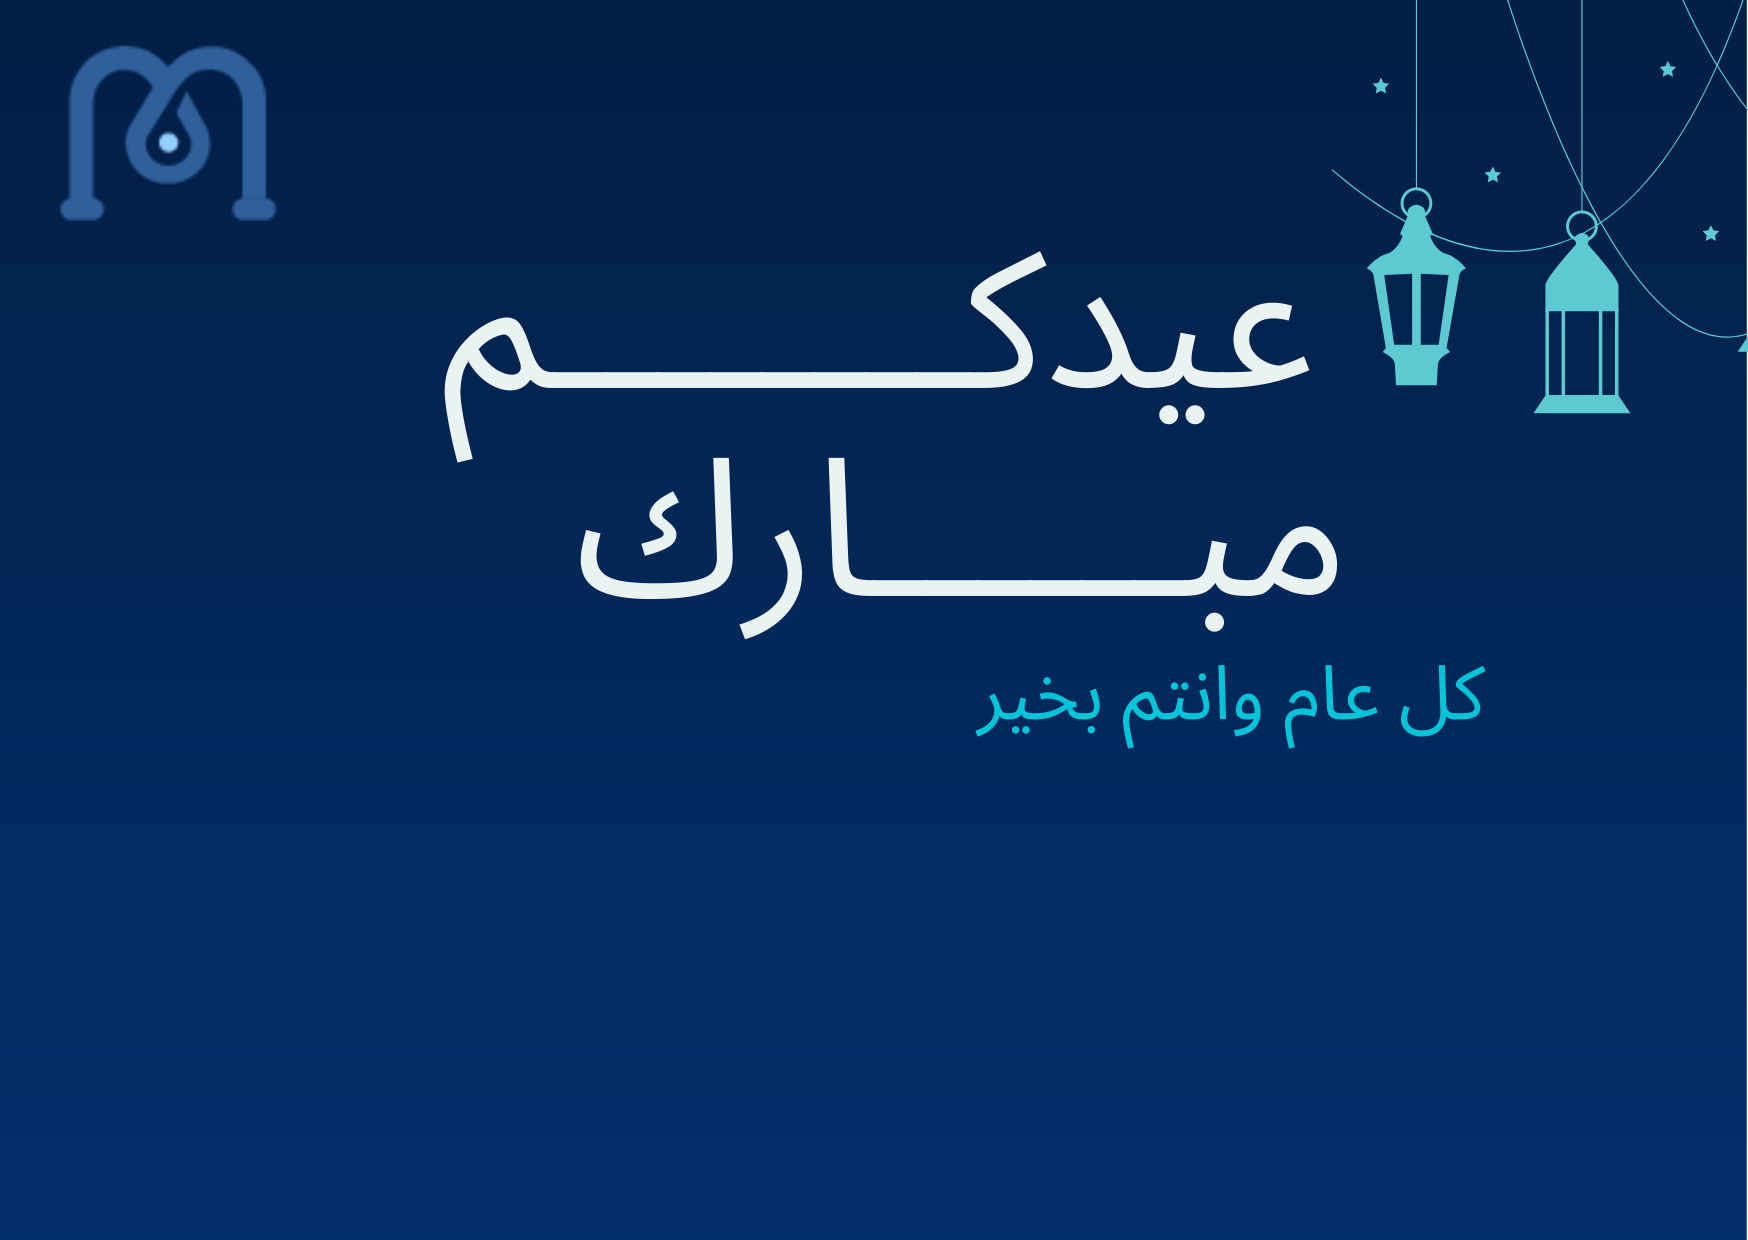
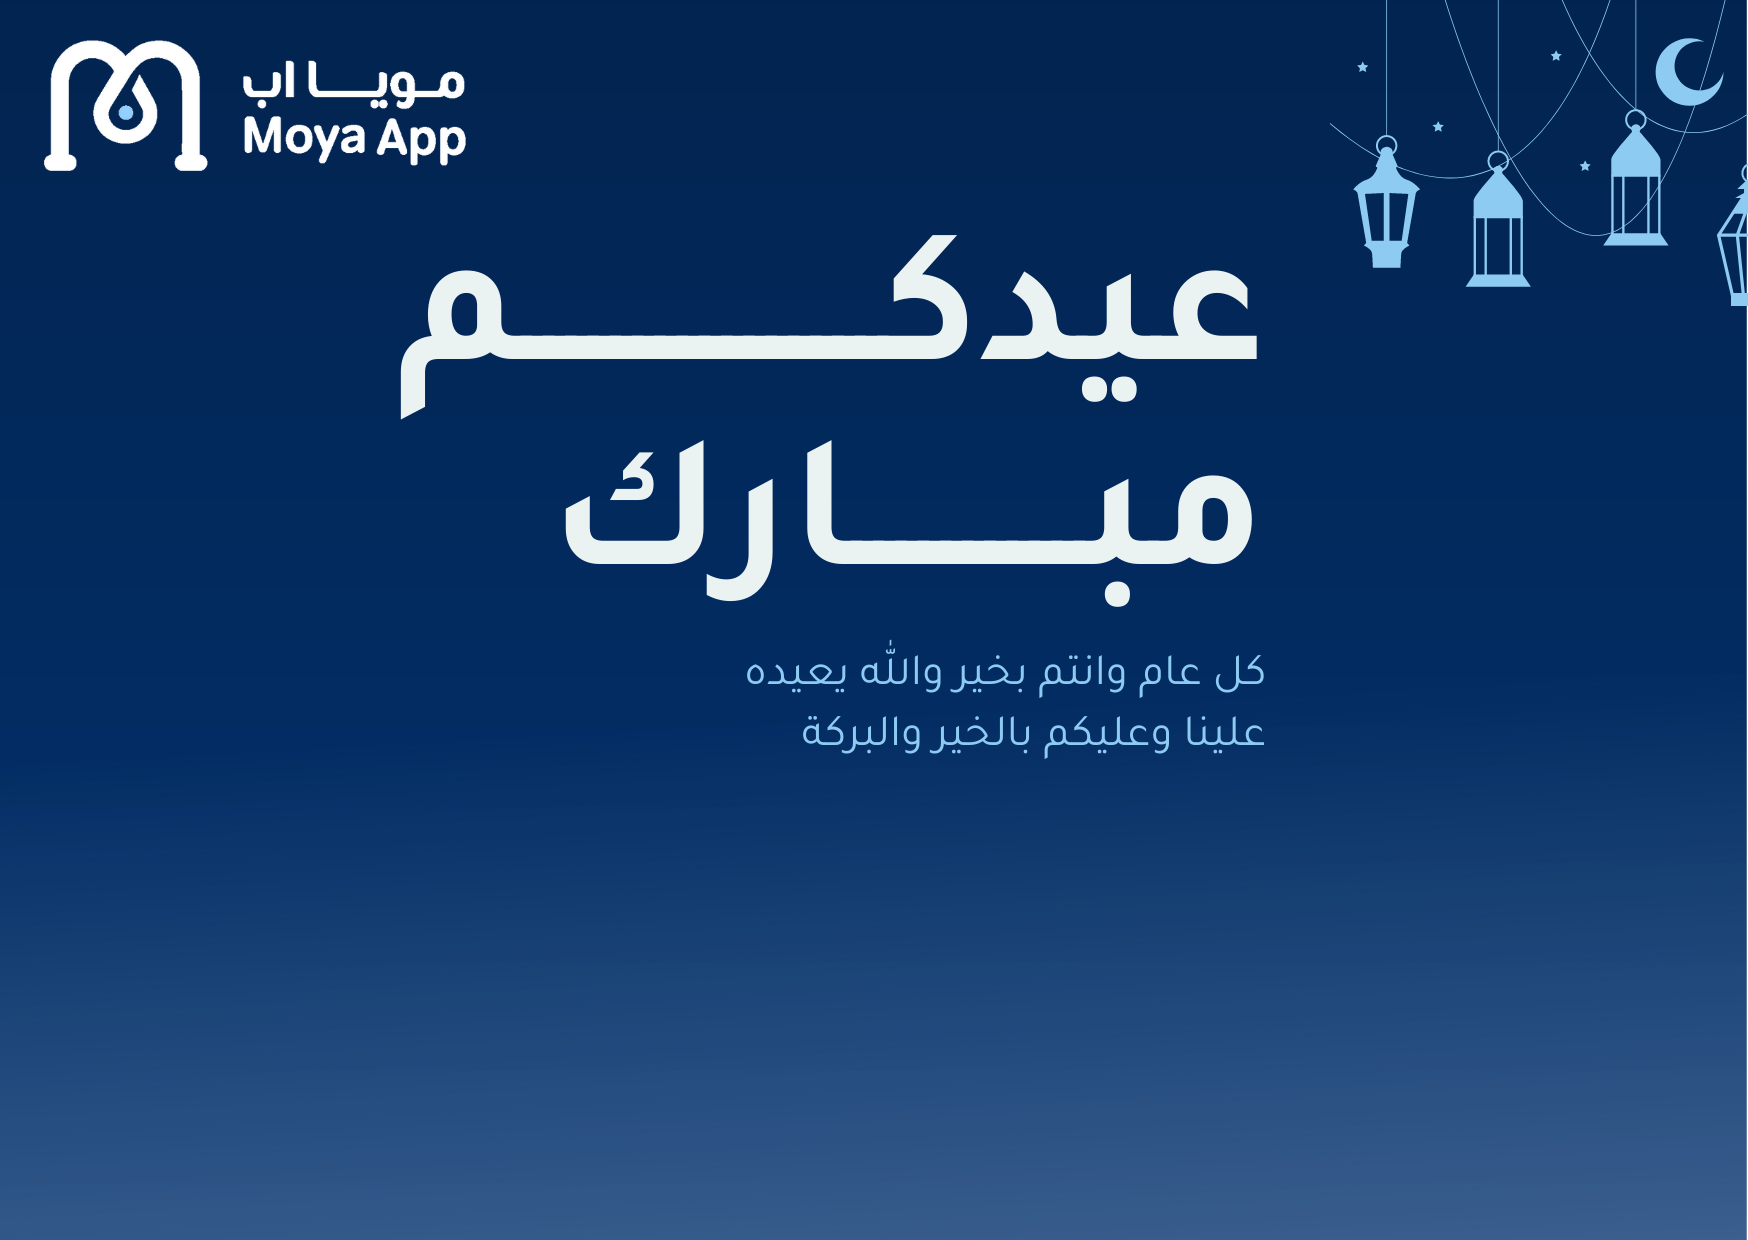
re-design

diff --git a/style.css b/style.css
@@ -1,20 +1,18 @@
 :root {
-    --font-base: Scheherazade New;
-    --font-headings: Scheherazade New;
-    --font-input: Scheherazade New;
+    --font-base: 'Tajawal', sans-serif;
+    --font-headings:  'Tajawal', sans-serif;
+    --font-input: 'Tajawal', sans-serif;
+    }
+    *{
+        font-family: 'Tajawal', sans-serif !important;
     }
     body, #content, .entry-content, .post-content, .page-content, .post-excerpt, .entry-summary, .entry-excerpt, .widget-area, .widget, .sidebar, #sidebar, footer, .footer, #footer, .site-footer {
-    font-family: "Scheherazade New";
-     }
+        font-family: 'Tajawal', sans-serif;     }
     #site-title, .site-title, #site-title a, .site-title a, .entry-title, .entry-title a, h1, h2, h3, h4, h5, h6, .widget-title {
-    font-family: "Scheherazade New";
-     }
+        font-family: 'Tajawal', sans-serif;     }
     button, .button, input, select, textarea, .wp-block-button, .wp-block-button__link {
-    font-family: "Scheherazade New";
-     }
-        </style>
-        <!-- Fonts Plugin CSS -->
-        <style type="text/css" data-type="vc_custom-css">.vc_column_container > .vc_column-inner {
+        font-family: 'Tajawal', sans-serif;     }
+    .vc_column_container > .vc_column-inner {
       padding: 0;
     }
     
@@ -35,12 +33,10 @@
     }
     
     .arFontFamily {
-      font-family: Davat,Tahoma;
-    }
+        font-family: 'Tajawal', sans-serif;    }
     
     .enFontFamily {
-      font-family: Davat,Futura,Tahoma;
-    }
+        font-family: 'Tajawal', sans-serif;    }
     
     .inputsContainer {
       width: 600px;
@@ -82,7 +78,7 @@
       -webkit-box-align: center;
       align-items: center;
       padding: 15px;
-      bottom: 3%;
+      bottom: 7%;
     }
     .resultContainer2 {
       margin: auto;
@@ -102,7 +98,7 @@
       -webkit-box-align: center;
       align-items: center;
       padding: 15px;
-      bottom: 13%;
+      bottom: 17%;
     }
     .result {
       display: flex;

diff --git a/index.html b/index.html
@@ -13,7 +13,9 @@
     <script src="https://ajax.googleapis.com/ajax/libs/jquery/3.6.0/jquery.min.js"></script>
     <link rel="stylesheet" href="style.css">
 <link href="https://cdn.jsdelivr.net/npm/bootstrap@5.1.3/dist/css/bootstrap.min.css" rel="stylesheet" integrity="sha384-1BmE4kWBq78iYhFldvKuhfTAU6auU8tT94WrHftjDbrCEXSU1oBoqyl2QvZ6jIW3" crossorigin="anonymous">
-
+<link rel="preconnect" href="https://fonts.googleapis.com">
+<link rel="preconnect" href="https://fonts.gstatic.com" crossorigin>
+<link href="https://fonts.googleapis.com/css2?family=Tajawal&display=swap" rel="stylesheet">
 </head>
 <body>
     <img src="on.png" class="w-100" alt="">
@@ -38,12 +40,12 @@
                             <img class="companyImage"
                                 src="post.png" />
                             <div class="resultContainer1">
-                                <div id="result1" class="result" style="color:#EBF2F2; font-size: 17px; font-weight: 400;">
+                                <div id="result1" class="result" style="color:#EBF2F2; font-size: 41px; font-weight: 400;">
                                     <span></span>
                                 </div>
                             </div>
                             <div class="resultContainer2">
-                                <div id="result2" class="result" style="color:#EBF2F2; font-size: 25px; font-weight: 300;">
+                                <div id="result2" class="result" style="color:#EBF2F2; font-size: 55px; font-weight: 400;">
                                     <span></span>
                                 </div>
                             </div>

diff --git a/script.js b/script.js
@@ -66,8 +66,8 @@ for (const a of resultSpan ) {
 //var bottomText = jQuery(element).find(".result1").css("bottom");
 //jQuery(element).css("width", "100%");
 
-jQuery(element).find(".resultContainer1").css("bottom", "3%");
-jQuery(element).find(".resultContainer2").css("bottom", "13%");
+jQuery(element).find(".resultContainer1").css("bottom", "7%");
+jQuery(element).find(".resultContainer2").css("bottom", "17%");
 
 viewport.setAttribute('content', '');
 html2canvas(element, {
